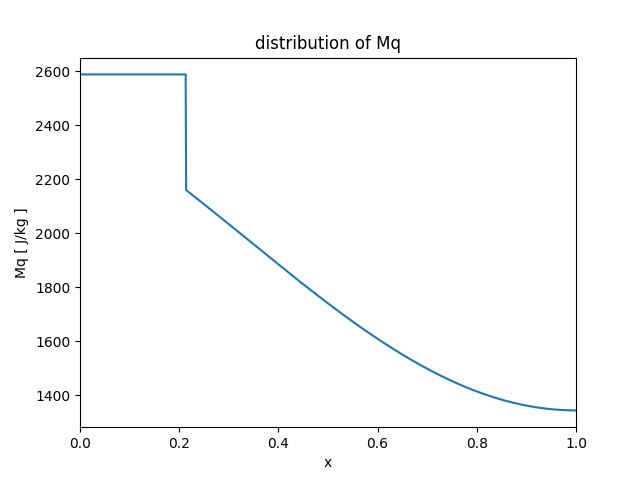
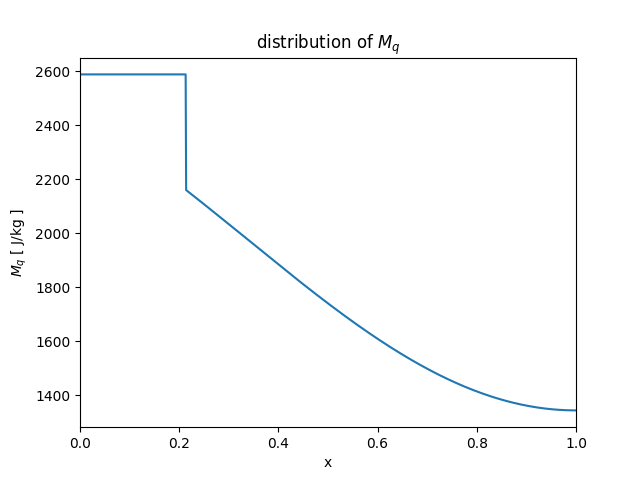
図修正

Changed region(s): [[0.4062, 0.0625, 0.625, 0.125], [0.0, 0.4375, 0.0625, 0.5938]]

diff --git a/ADII/BS02_03.py b/ADII/BS02_03.py
@@ -60,7 +60,7 @@ xnum = np.arange(0, 1, dx)
 #plt.plot(xnum[0:ix-1], out[0:ix-1])
 plt.plot(xnum, out)
 plt.xlim(0.0,1.0)
-plt.title("distribution of Mq")
+plt.title("distribution of $M_q$")
 plt.xlabel("x")
-plt.ylabel("Mq [ J/kg ]")
+plt.ylabel("$M_q$ [ J/kg ]")
 plt.show()

diff --git a/ADII/BS02_04.py b/ADII/BS02_04.py
@@ -37,7 +37,7 @@ xnum = np.arange(0, 1, dx)
 #print(fig.shape)
 plt.plot(xnum,out)
 plt.xlim(0.0, 1.0)
-plt.title("distribution of Mq")
+plt.title("distribution of $M_q$")
 plt.xlabel("x")
-plt.ylabel("Mq [ J/kg ]")
+plt.ylabel("$M_q$ [ J/kg ]")
 plt.show()
